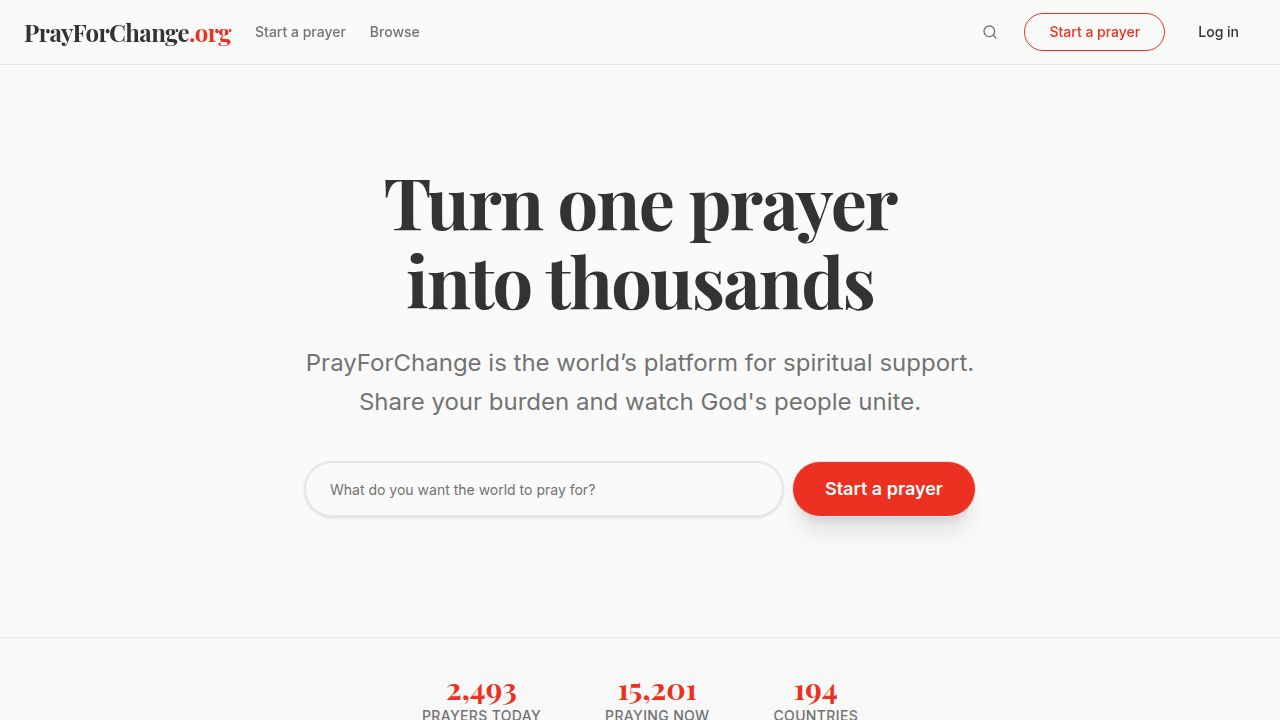
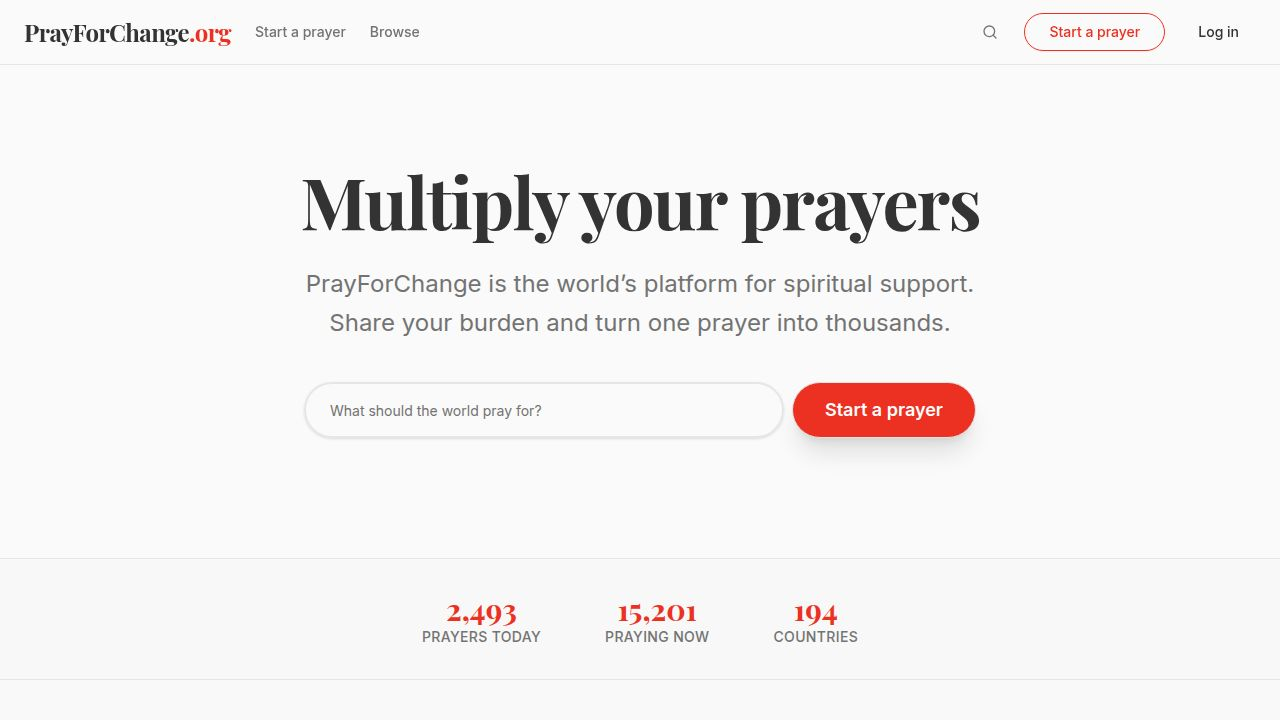
Update homepage headline to "Multiply your prayers"
Change the main headline text on the homepage from "Magnify your prayers" to "Multiply your prayers" in `client/src/pages/home.tsx`.

Replit-Commit-Author: Agent
Replit-Commit-Session-Id: 540dea52-4029-430e-9a02-2f55bc899ce3
Replit-Commit-Checkpoint-Type: full_checkpoint
Replit-Commit-Event-Id: 43ee6c04-c393-4e92-ad8d-edae8458e6d5
Replit-Commit-Screenshot-Url: https://storage.googleapis.com/screenshot-production-us-central1/50fb484a-02c0-42b4-9372-a71ff77a0d48/540dea52-4029-430e-9a02-2f55bc899ce3/YcSi9eQ
Replit-Helium-Checkpoint-Created: true

diff --git a/client/src/pages/home.tsx b/client/src/pages/home.tsx
@@ -28,7 +28,7 @@ export default function Home() {
       <div className="relative bg-background py-20 md:py-24 border-b">
         <div className="container mx-auto px-4 md:px-6 text-center max-w-4xl">
           <h1 className="text-5xl md:text-7xl font-serif font-bold leading-[1.1] tracking-tight mb-6 text-balance">
-            Magnify your prayers
+            Multiply your prayers
           </h1>
           
           <p className="text-xl md:text-2xl text-muted-foreground mb-10 max-w-2xl mx-auto leading-relaxed">
